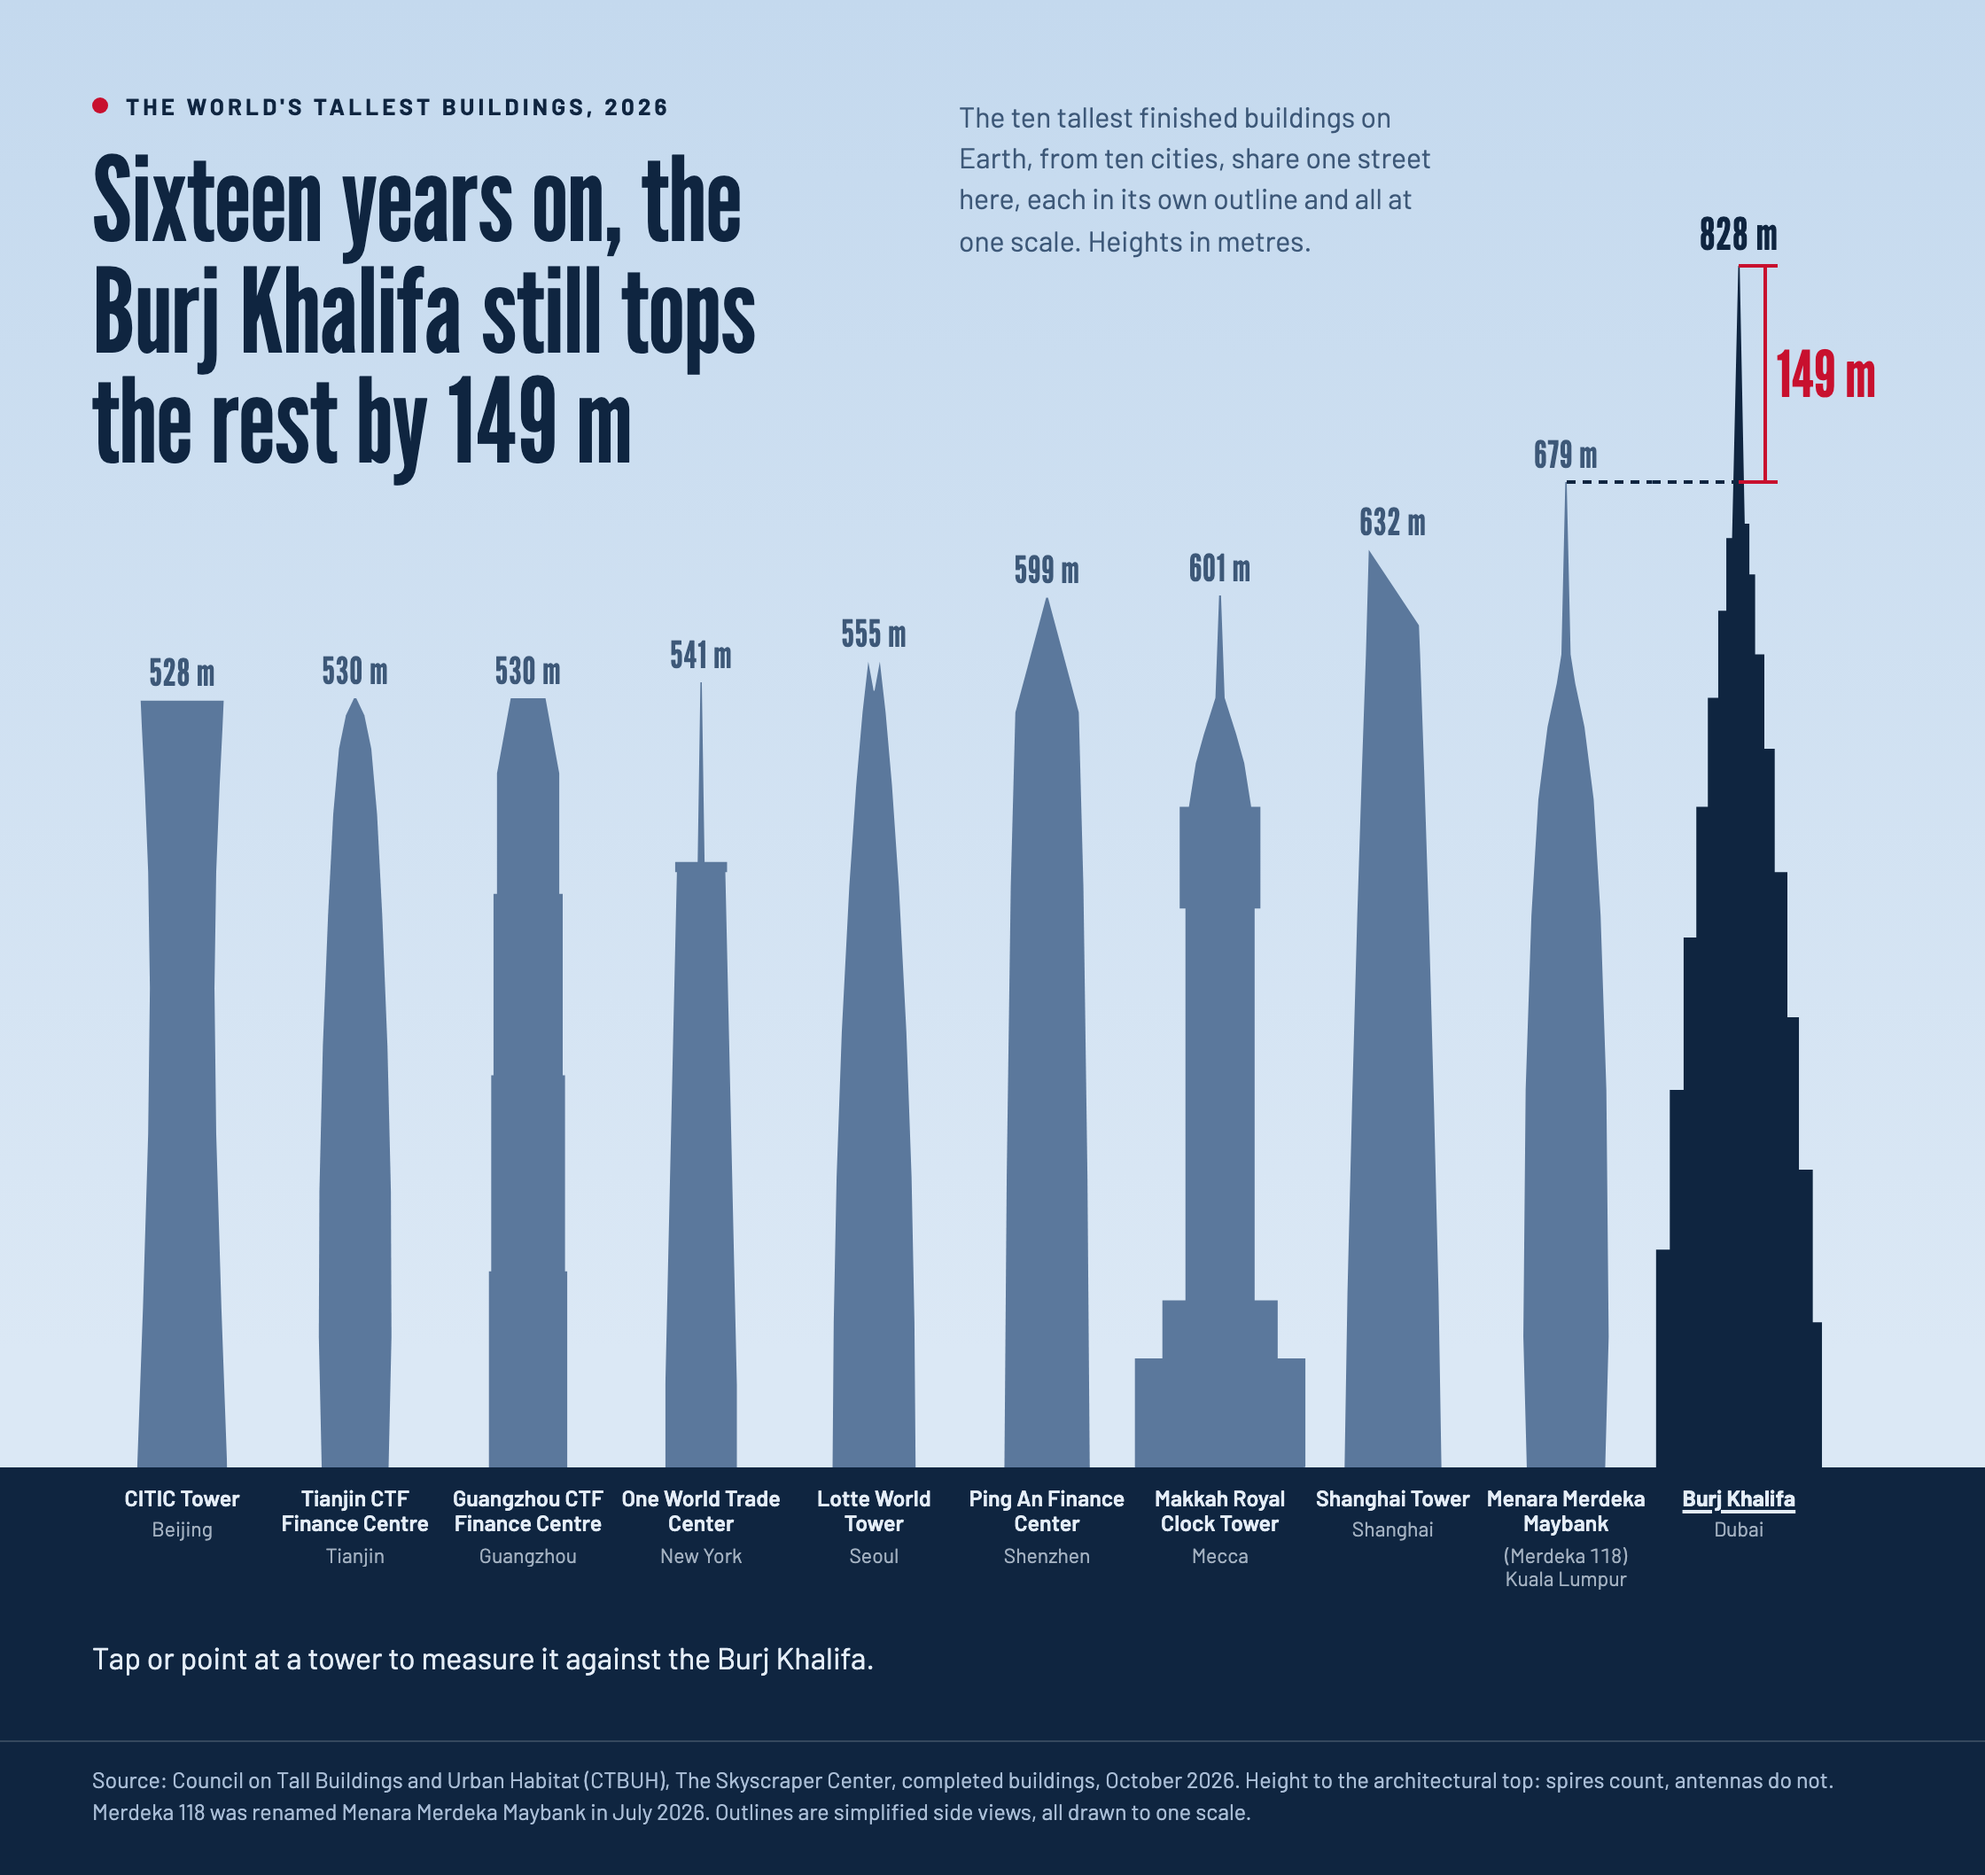
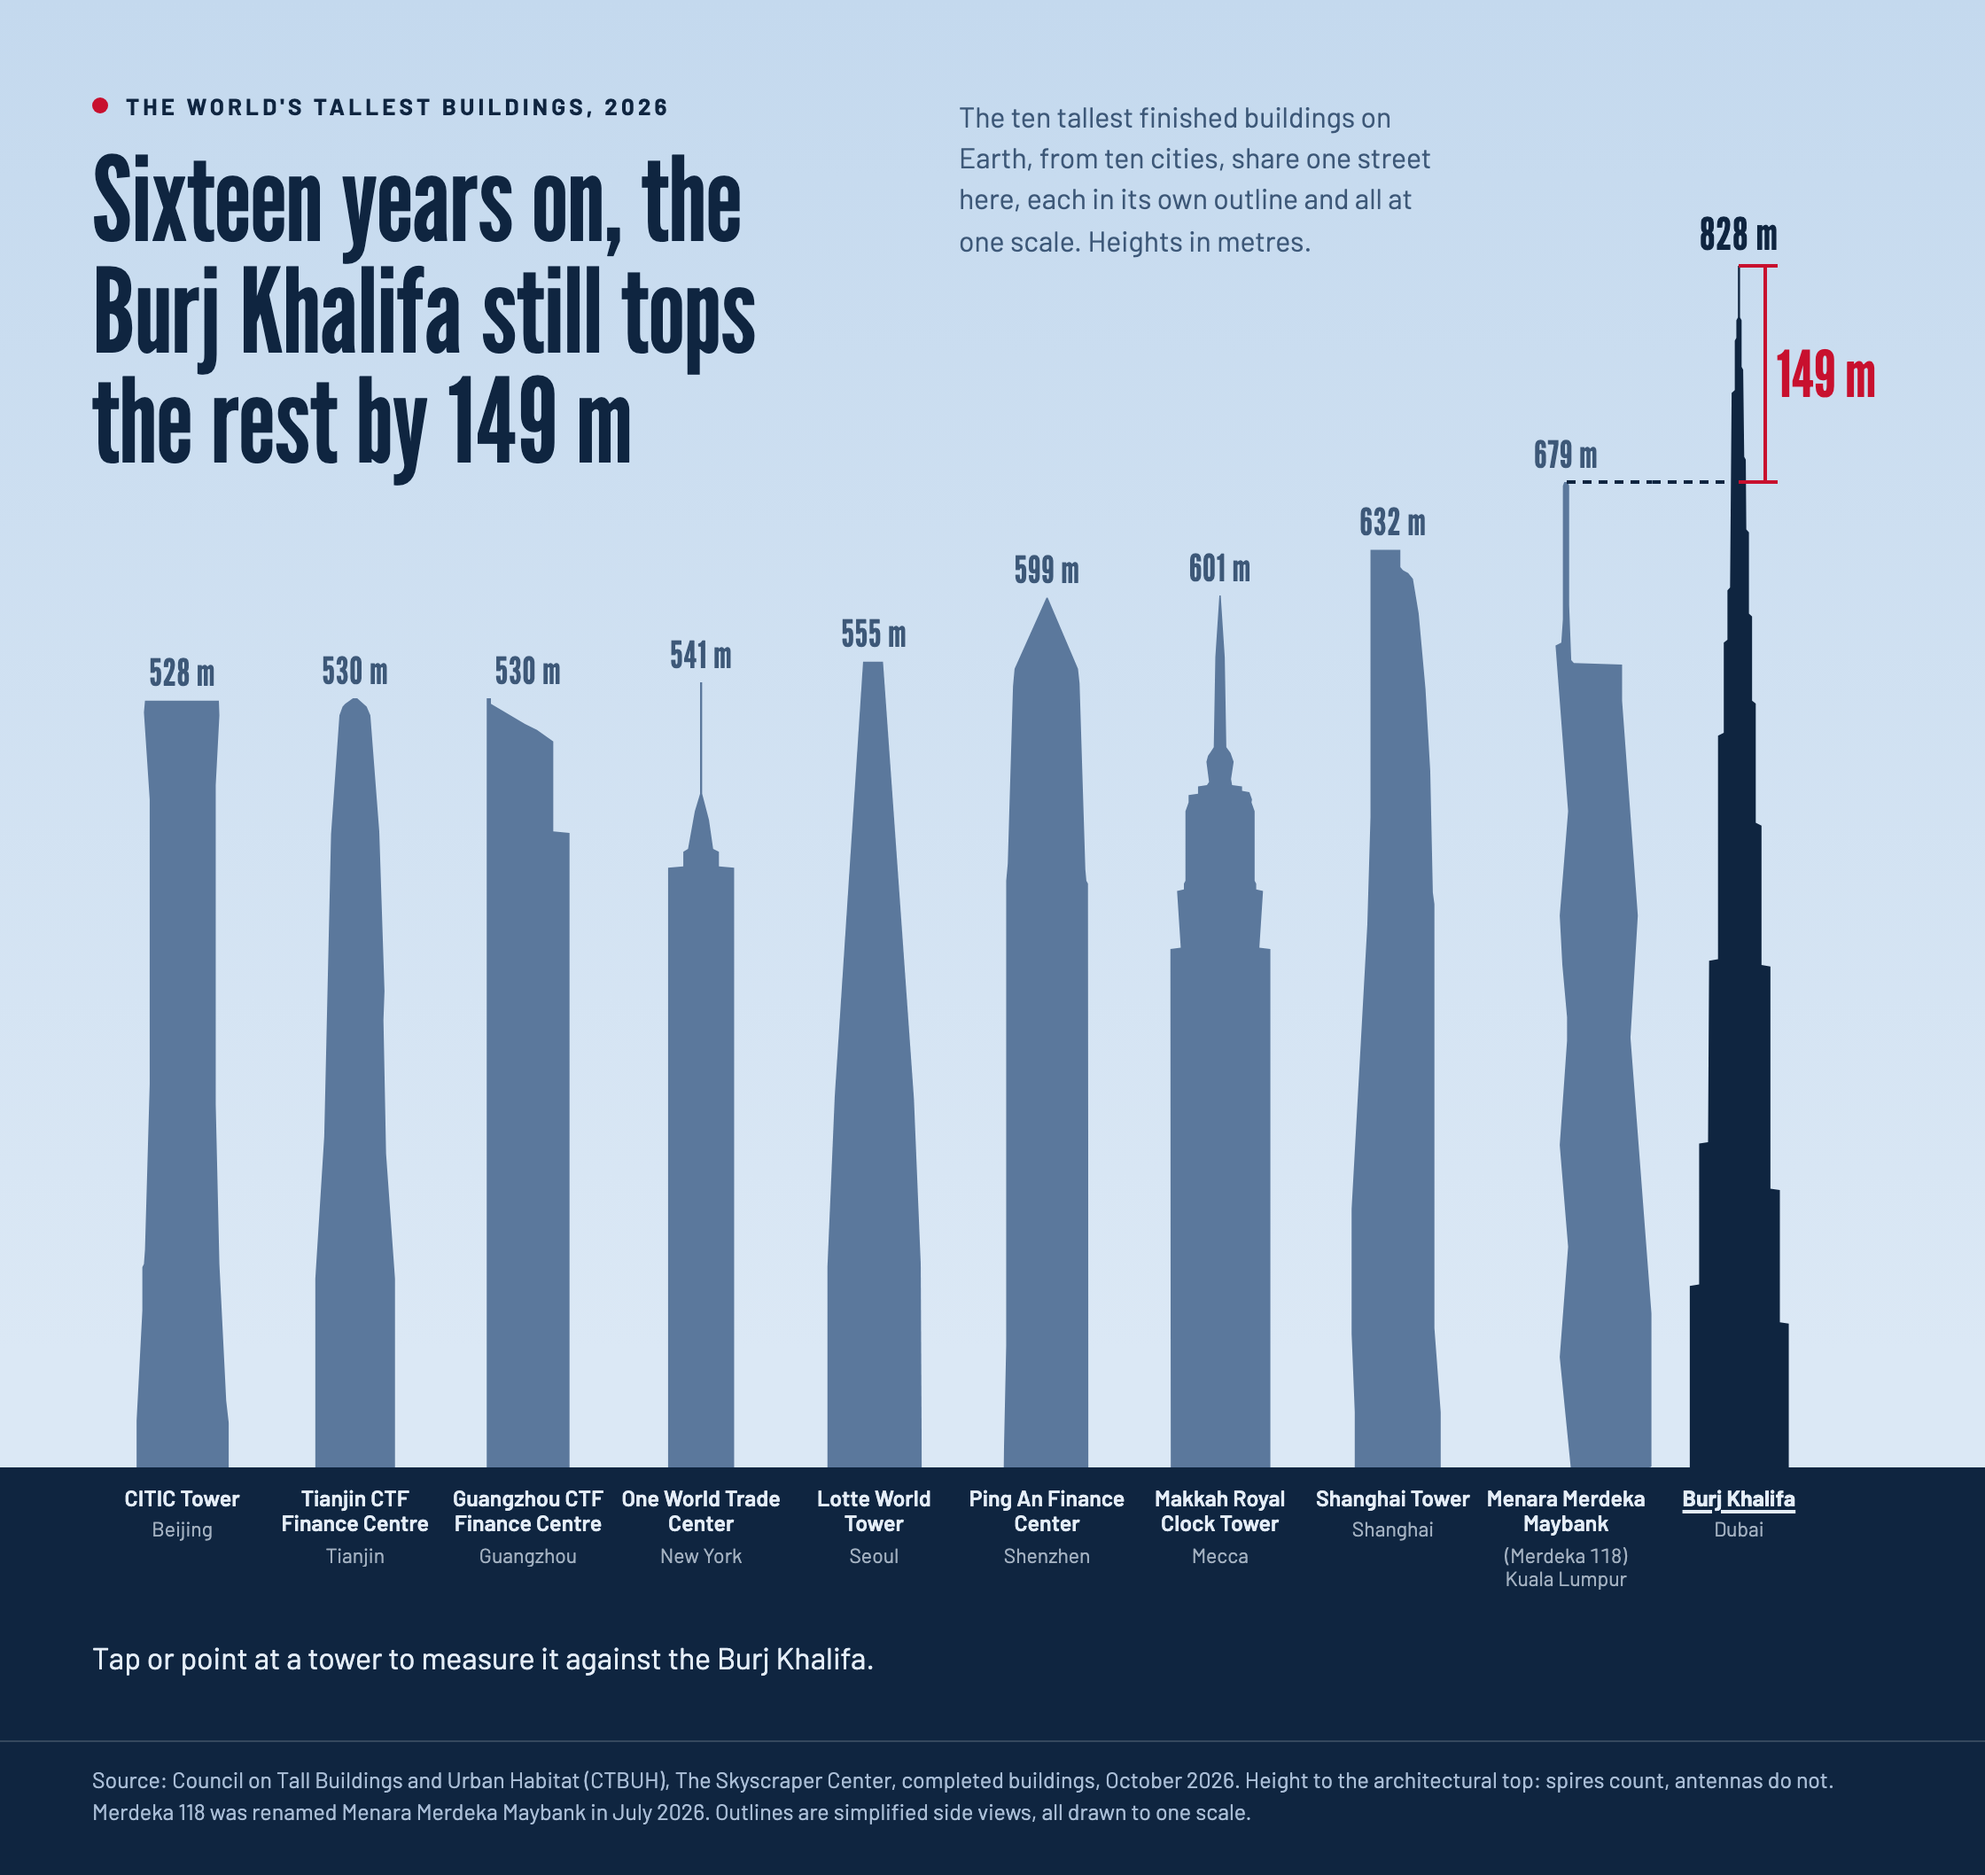
Update the silhouettes recipe: outlines measured from a to-scale elevation diagram

diff --git a/public/ai/rhp/recipes/silhouettes.html b/public/ai/rhp/recipes/silhouettes.html
@@ -118,28 +118,54 @@ const SOURCE = "Source: Council on Tall Buildings and Urban Habitat (CTBUH), The
   + "Height to the architectural top: spires count, antennas do not. Merdeka 118 was renamed Menara Merdeka Maybank in July 2026. "
   + "Outlines are simplified side views, all drawn to one scale.";
 
-// Outlines: each building seen from the side, simplified, as [metres above the street, half its width in metres]
-// from the street up; the left side, and the right side when it differs. Every outline is drawn on one scale, BOX metres wide.
+// Outlines: each building seen from the side, as [metres above the street, metres from its axis to its edge] from the
+// street up; the left side, and the right side when it differs (an edge past the axis has a negative distance).
+// Measured every 2 m from Phoenix CZE's to-scale elevation diagram, "Tallest buildings 2026" (Wikimedia Commons,
+// CC BY-SA 4.0), and simplified to within a metre; podiums are left out, and the Clock Tower's crescent, too small to draw,
+// ends its spire in a point. Every outline is drawn on one scale, BOX metres wide.
 const PROFILE = {
   "Burj Khalifa": {
-    left: [[0, 72], [150, 72], [150, 60], [260, 60], [260, 48], [365, 48], [365, 37], [455, 37], [455, 27], [530, 27], [530, 18], [590, 18], [590, 11], [640, 11], [640, 6], [828, 0.6]],
-    right: [[0, 72], [100, 72], [100, 64], [205, 64], [205, 52], [310, 52], [310, 42], [410, 42], [410, 31], [495, 31], [495, 22], [560, 22], [560, 14], [615, 14], [615, 9], [650, 9], [650, 5], [828, 0.6]],
+    left: [[0, 47], [125, 47], [126, 38], [223, 38], [224, 29.5], [349, 28.5], [350, 20], [504, 20], [506, 14.5], [568, 14.5], [570, 11], [604, 11], [606, 8.5], [740, 7], [742, 4], [776, 4], [778, 2.5], [790, 2.5], [792, 1], [828, 1]],
+    right: [[0, 47.5], [99, 47.5], [100, 39], [191, 39], [192, 30], [345, 30], [346, 21.5], [442, 21.5], [444, 16], [526, 16], [528, 12.5], [586, 12.5], [588, 9.5], [644, 9.5], [646, 7], [694, 6.5], [696, 5], [756, 4], [758, 2.5], [790, 2.5], [792, 1], [828, 1]],
   },
-  "Menara Merdeka Maybank": { left: [[0, 34], [90, 37], [260, 35], [380, 30], [460, 24], [510, 16], [540, 8], [560, 4], [679, 0.6]] },
+  "Menara Merdeka Maybank": {
+    left: [[0, -4.5], [76, 6], [152, -2], [222, 6], [294, -1], [310, -1], [346, 3.5], [380, 6], [452, -2], [566, 10], [568, 4.5], [584, 3], [676, 3], [679, 1.5]],
+    right: [[0, 81.5], [106, 81.5], [296, 61.5], [380, 68.5], [528, 53.5], [553, 53.5], [554, 7.5], [556, 5], [594, 3], [676, 3], [679, 1.5]],
+  },
   "Shanghai Tower": {
-    left: [[0, 42], [120, 39.5], [250, 35.5], [380, 31], [480, 27], [560, 23.5], [632, 21]],
-    right: [[0, 42], [120, 39.5], [250, 35.5], [380, 31], [480, 27], [560, 23.5], [580, 22.5]],
+    left: [[0, 36.5], [38, 36.5], [92, 39.5], [178, 39.5], [374, 24.5], [448, 21.5], [632, 21.5]],
+    right: [[0, 45.5], [38, 45.5], [96, 39.5], [388, 39.5], [396, 38], [480, 35.5], [536, 31], [588, 24.5], [612, 19], [616, 14.5], [618, 9.5], [620, 7], [632, 7]],
   },
-  "Makkah Royal Clock Tower": { left: [[0, 74], [75, 74], [75, 50], [115, 50], [115, 30], [385, 30], [385, 35], [455, 35], [455, 27], [485, 21], [505, 14], [520, 8], [530, 4], [601, 0.8]] },
-  "Ping An Finance Center": { left: [[0, 37], [200, 35], [400, 31.5], [520, 27.5], [599, 0.8]] },
-  // Lotte's top is split by a slit: its outline ends below the tip, in the middle, so the two sides meet in a notch
-  "Lotte World Tower": { left: [[0, 36], [100, 35], [200, 32.5], [300, 28], [400, 21.5], [470, 15.5], [520, 10], [555, 5], [535, 0.4]] },
-  "One World Trade Center": { left: [[0, 31], [57, 31], [410, 21], [410, 22.5], [417, 22.5], [417, 3], [541, 0.6]] },
-  "Guangzhou CTF Finance Centre": { left: [[0, 34], [135, 34], [135, 32], [270, 32], [270, 30], [395, 30], [395, 27], [478, 27], [530, 15]] },
-  "Tianjin CTF Finance Centre": { left: [[0, 29], [90, 31.5], [190, 31], [290, 28], [380, 23.5], [450, 19], [495, 14], [518, 8], [530, 0.8]] },
-  "CITIC Tower": { left: [[0, 39], [110, 34], [230, 29.5], [330, 28], [410, 29.5], [470, 32.5], [510, 35], [528, 36]] },
+  "Makkah Royal Clock Tower": {
+    left: [[0, 47], [357, 47.5], [358, 37.5], [397, 41], [398, 34.5], [402, 34.5], [404, 33], [452, 33], [458, 30], [463, 30], [464, 21], [469, 21], [470, 12.5], [472, 10.5], [486, 13], [490, 11.5], [496, 6], [558, 4.5], [601, 0.6]],
+    right: [[0, 48], [357, 48], [358, 37.5], [397, 41], [398, 34.5], [402, 34.5], [404, 33], [452, 33], [458, 30], [460, 30.5], [465, 28], [466, 21], [469, 21], [470, 11.5], [474, 10.5], [486, 13], [492, 10], [496, 6], [558, 4.5], [601, 0.6]],
+  },
+  "Ping An Finance Center": {
+    left: [[0, 41.5], [84, 39], [404, 39], [416, 37.5], [538, 32.5], [550, 31], [599, 0.6]],
+    right: [[0, 39.5], [402, 39], [404, 37.5], [412, 36.5], [540, 31], [550, 29.5], [599, 0.6]],
+  },
+  "Lotte World Tower": {
+    left: [[0, 44.5], [138, 44.5], [256, 37.5], [555, 10.5]],
+    right: [[0, 45.5], [140, 44.5], [254, 38], [555, 8.5]],
+  },
+  "One World Trade Center": {
+    left: [[0, 31.5], [413, 31.5], [414, 17], [424, 17], [426, 12.5], [452, 6], [464, 1], [541, 1]],
+    right: [[0, 31.5], [413, 31.5], [414, 17], [424, 17], [426, 11.5], [446, 7.5], [464, 1], [541, 1]],
+  },
+  "Guangzhou CTF Finance Centre": {
+    left: [[0, 39.5], [530, 39.5]],
+    right: [[0, 39.5], [437, 39.5], [438, 24], [500, 24], [508, 8.5], [512, -3], [526, -35.5], [530, -35.5]],
+  },
+  "Tianjin CTF Finance Centre": {
+    left: [[0, 38], [130, 38], [228, 29.5], [436, 23], [518, 15], [524, 12], [526, 9.5], [530, 1.5]],
+    right: [[0, 38], [130, 38], [216, 29.5], [308, 27], [328, 28], [438, 23], [518, 14.5], [524, 11], [530, 1.5]],
+  },
+  "CITIC Tower": {
+    left: [[0, 43.5], [32, 43.5], [108, 38], [138, 38], [140, 36.5], [150, 35.5], [264, 31], [460, 31], [520, 36.5], [528, 35.5]],
+    right: [[0, 44.5], [30, 44.5], [46, 42], [140, 35.5], [250, 32], [470, 32], [518, 35.5], [528, 35]],
+  },
 };
-const BOX = 150;
+const BOX = 165;
 // A profile as a Bar's outline: along runs from the street (0) to the top (1), across from the left (0) to the right (1)
 const outline = ({ left, right = left }) => {
   const top = Math.max(...left.map(([h]) => h), ...right.map(([h]) => h));
